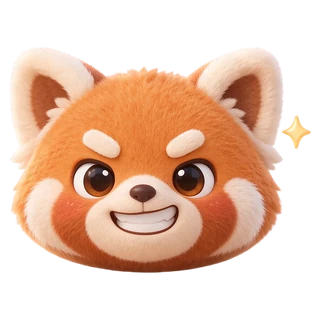
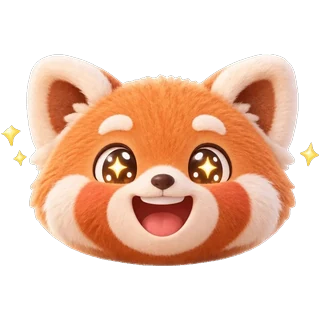
Humeurs : 12 au lieu de 8, nouvelles têtes du panda
- Ajoutées : Pas en forme (thermomètre), Bof, Agacé (joues gonflées), Triste (petite
  larme, oreilles baissées)
- « Plein d'énergie » devient « Enthousiaste », avec des yeux pétillants
- Rangées du plus joyeux au plus dur ; la figurine de la maison prend le visage
  le plus proche pour les nouvelles humeurs

Claude-Session: https://claude.ai/code/session_014Qi6wA4eG2uv5UbmWMkM5L

diff --git a/src/components/Character.tsx b/src/components/Character.tsx
@@ -1,3 +1,4 @@
+import { VISAGE_PROCHE } from '../lib/data'
 import { useEffect, useId, useMemo, useState, type ReactNode } from 'react'
 import { ACCESSORIES, echelleCarrure, encodeLook, EYES, HAIR_COLORS, HAIRSTYLES, porteA, SKINS, TOPS, type Look } from '../lib/look'
 import { COULEURS_MONTURE, FORMES_LUNETTES, LUNETTES_IMG } from '../lib/lunettes'
@@ -392,7 +393,8 @@ export function Character(props: Props) {
   )
 }
 
-function Figurine({ look, mood = null, bust = false, extras = false, className = '', pose, blush = false, recul = 1, onPret }: Props & { onPret?: () => void }) {
+function Figurine({ look, mood: humeur = null, bust = false, extras = false, className = '', pose, blush = false, recul = 1, onPret }: Props & { onPret?: () => void }) {
+  const mood = humeur ? VISAGE_PROCHE[humeur] ?? humeur : humeur
   attente = 0
   const p = persoOf(look)
   const src0 = usePersoSrc(p, look)
@@ -753,7 +755,7 @@ function body(age: number, top: string, skin: string, pose?: 'calin') {
 }
 
 export function CharacterSvg({
-  look, mood = null, bust = false, extras = false, size, className = '', blinkDelay = 0, still = false, pose, blush = false,
+  look, mood: humeur = null, bust = false, extras = false, size, className = '', blinkDelay = 0, still = false, pose, blush = false,
 }: {
   look: Look
   mood?: string | null
@@ -771,6 +773,7 @@ export function CharacterSvg({
   /** joues toutes roses (après un bisou) */
   blush?: boolean
 }) {
+  const mood = humeur ? VISAGE_PROCHE[humeur] ?? humeur : humeur
   const id = useId().replace(/:/g, '')
   const skin = SKINS[look.s]
   const skinD = shade(skin, -0.16)

diff --git a/src/lib/data.ts b/src/lib/data.ts
@@ -4,13 +4,19 @@ import type { HouseType, ThoughtKind } from './types'
 export const MOODS: { key: string; label: string; color: string }[] = [
   { key: 'heureux', label: 'Au top', color: '#F5B700' },
   { key: 'serein', label: 'Zen', color: '#12A594' },
-  { key: 'motive', label: 'Plein d’énergie', color: '#F76B15' },
+  { key: 'motive', label: 'Enthousiaste', color: '#F76B15' },
   { key: 'fete', label: 'En joie', color: '#D6409F' },
-  { key: 'fatigue', label: 'Fatigue', color: '#8E8AA6' },
-  { key: 'stresse', label: 'Stress', color: '#E5484D' },
   { key: 'nostalgique', label: 'Un brin nostalgique', color: '#6E56CF' },
+  { key: 'bof', label: 'Bof', color: '#9A94A8' },
+  { key: 'fatigue', label: 'Fatigue', color: '#8E8AA6' },
+  { key: 'malade', label: 'Pas en forme', color: '#6FA36B' },
+  { key: 'stresse', label: 'Stress', color: '#E5484D' },
+  { key: 'agace', label: 'Agacé', color: '#EF7D3C' },
   { key: 'triste', label: 'Coup de mou', color: '#3E9BE9' },
+  { key: 'chagrin', label: 'Triste', color: '#4F7BD9' },
 ]
+/** Pour la figurine de la maison, qui n'a que les huit premiers visages : la plus proche des nouvelles humeurs. */
+export const VISAGE_PROCHE: Record<string, string> = { malade: 'fatigue', agace: 'stresse', chagrin: 'triste' }
 export const moodOf = (key: string | null) => MOODS.find((m) => m.key === key) ?? null
 
 export const AVATARS: { key: string; label: string }[] = [

diff --git a/src/components/Smiley.tsx b/src/components/Smiley.tsx
@@ -2,7 +2,7 @@
 // (Elisa, 21 novembre : « remplace les emoji par ça »). Il se lit d'un coup d'œil dans la bulle au-dessus de chacun,
 // sur les pastilles et en grand pour choisir son humeur. Un smiley dessiné reste pour une humeur inconnue.
 
-const PANDAS = new Set(['heureux', 'serein', 'motive', 'fete', 'fatigue', 'stresse', 'nostalgique', 'triste'])
+const PANDAS = new Set(['heureux', 'serein', 'motive', 'fete', 'fatigue', 'stresse', 'nostalgique', 'triste', 'malade', 'bof', 'agace', 'chagrin'])
 
 const INK = '#5B3A1E'
 const MOUTH = '#7A3B1E'

diff --git a/src/components/House.tsx b/src/components/House.tsx
@@ -95,6 +95,10 @@ const MOVES: Record<string, string> = {
   nostalgique: 'oscille 6s ease-in-out infinite',
   stresse: 'oscille 0.9s ease-in-out infinite',
   triste: 'respire 5s ease-in-out infinite',
+  chagrin: 'respire 5s ease-in-out infinite',
+  malade: 'oscille 5s ease-in-out infinite',
+  bof: 'respire 4s ease-in-out infinite',
+  agace: 'oscille 1.2s ease-in-out infinite',
 }
 
 const LEAVES = ['#E8833A', '#D9572B', '#F2B33D', '#B5532A', '#E9A23B']
